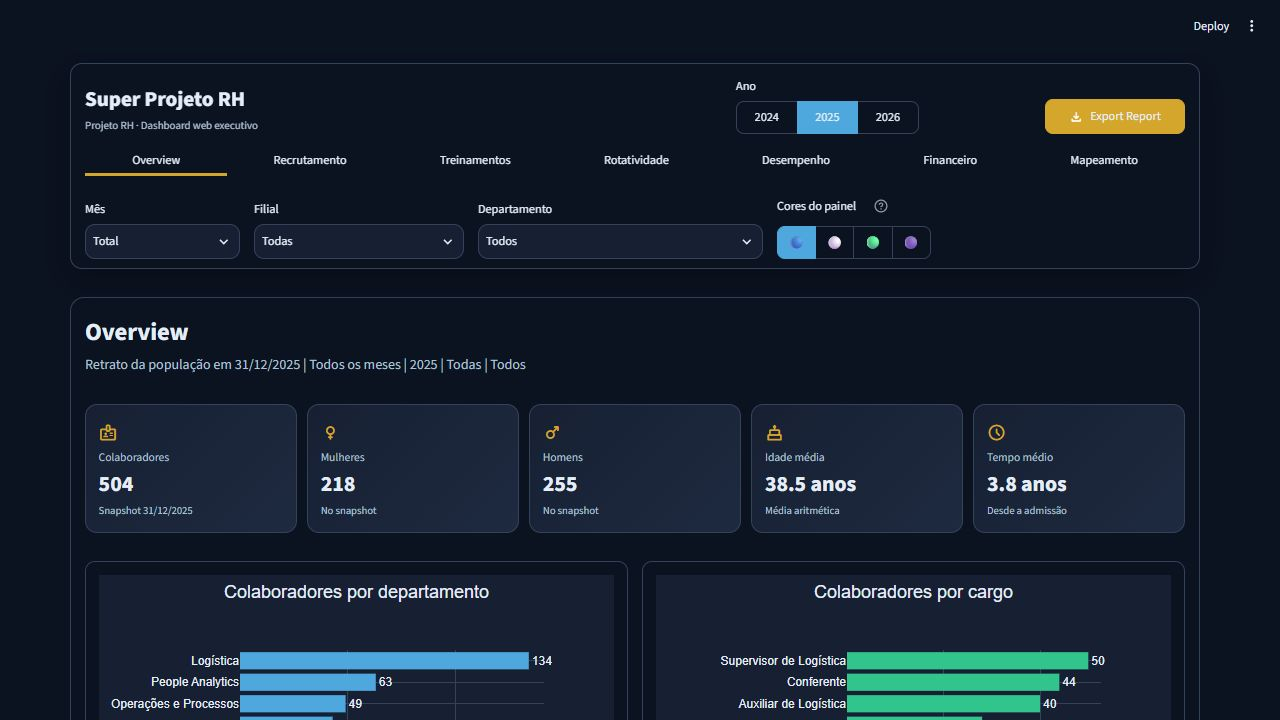
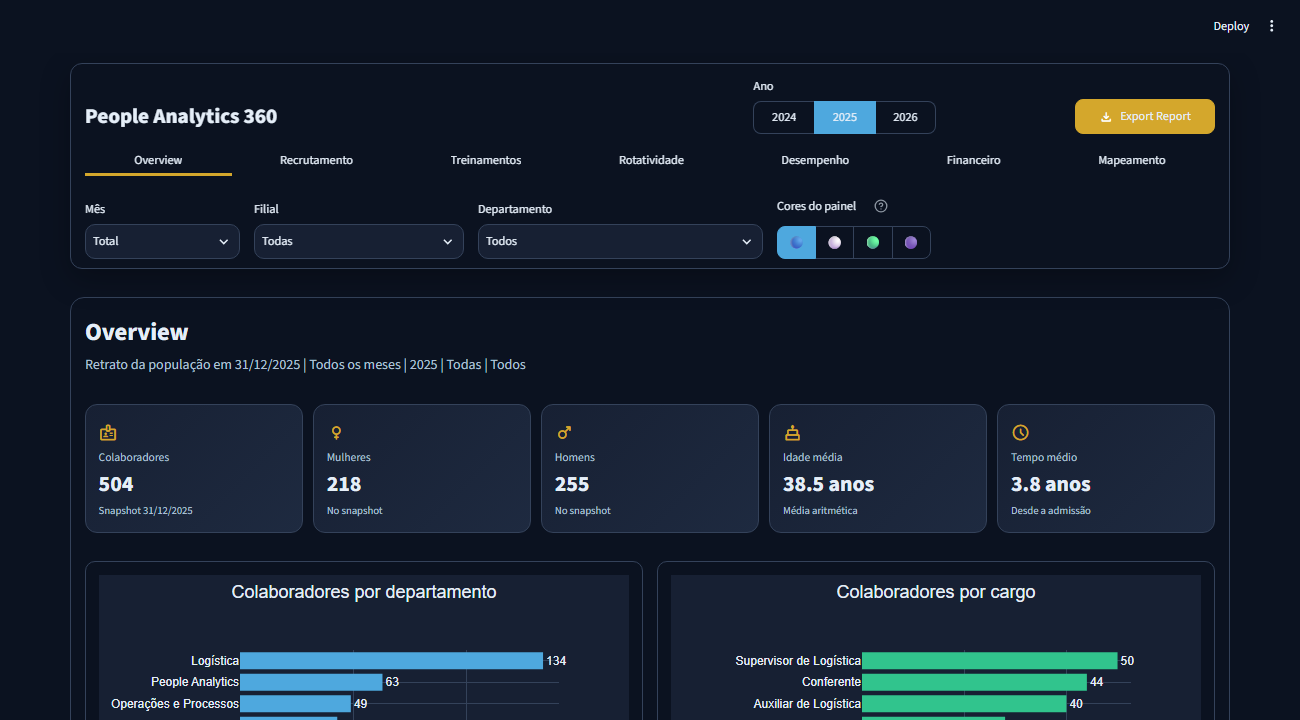
Atualizar título para People Analytics 360
Substitui o título antigo, deletei o subtítulo e atualizei a imagem de demonstração.

diff --git a/streamlit_app.py b/streamlit_app.py
@@ -1,4 +1,4 @@
-r"""Super Projeto RH: dashboard executivo de People Analytics em Streamlit.
+r"""People Analytics 360: dashboard executivo desenvolvido em Streamlit.
 
 Execute com:
 
@@ -32,13 +32,13 @@ from src.dashboard_core import (
 # ``set_page_config`` precisa aparecer antes dos outros elementos visuais.
 # ``layout="wide"`` usa a largura da tela, apropriada para dashboards.
 st.set_page_config(
-    page_title="Super Projeto RH",
+    page_title="People Analytics 360",
     page_icon=":material/analytics:",
     layout="wide",
     initial_sidebar_state="collapsed",
     menu_items={
         "About": (
-            "Super Projeto RH. Dados sintéticos de 2024 a 2026 "
+            "People Analytics 360. Dados sintéticos de 2024 a 2026 "
             "para estudo e portfólio."
         )
     },
@@ -224,7 +224,6 @@ def css_aplicacao(paleta: dict[str, str]) -> str:
       .rh-kpi-value {{ color: {paleta['texto']}; font-size: 1.55rem; font-weight: 760; }}
       .rh-kpi-note {{ color: {paleta['texto_suave']}; font-size: 0.76rem; }}
       .rh-brand {{ color: {paleta['texto']}; font-size: 1.5rem; font-weight: 800; }}
-      .rh-brand-note {{ color: {paleta['texto_suave']}; font-size: 0.78rem; }}
     </style>
     """
 
@@ -252,10 +251,7 @@ with st.container(key="fixed_menu"):
     )
 
     with coluna_marca:
-        st.html(
-            "<div class='rh-brand'>Super Projeto RH</div>"
-            "<div class='rh-brand-note'>Projeto RH · Dashboard web executivo</div>"
-        )
+        st.html("<div class='rh-brand'>People Analytics 360</div>")
 
     with coluna_ano:
         # As opções são strings para sincronizar corretamente com a URL.

diff --git a/src/__init__.py b/src/__init__.py
@@ -1,2 +1,2 @@
-"""Funções compartilhadas do Super Projeto RH."""
+"""Funções compartilhadas do People Analytics 360."""
 
